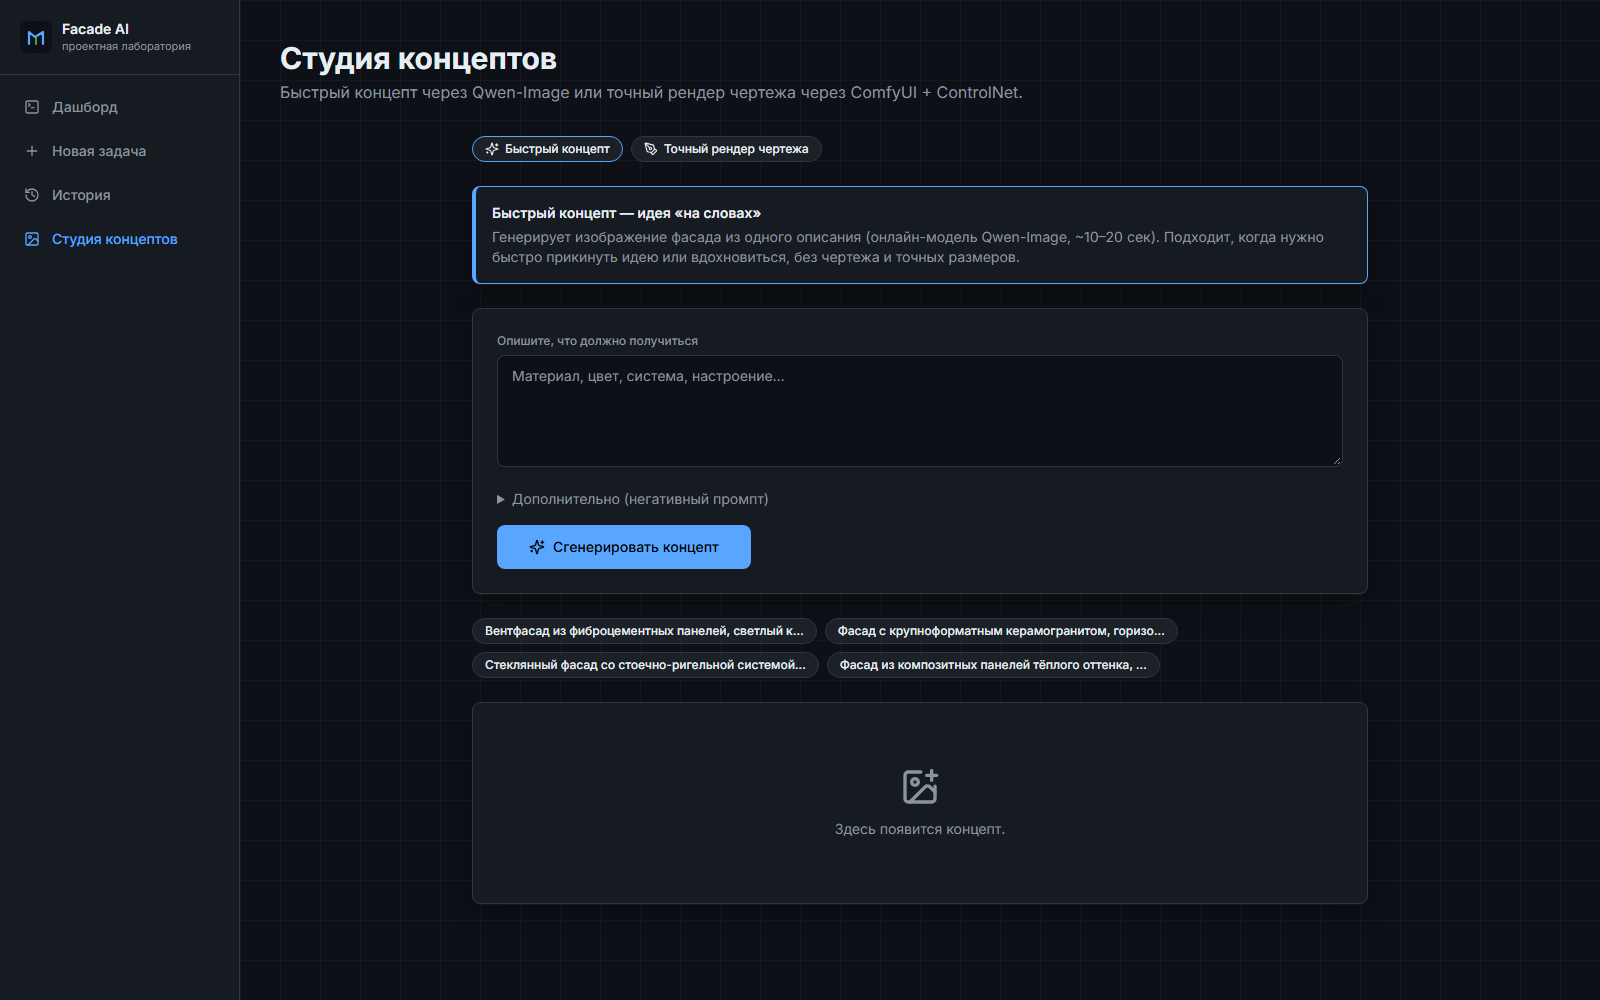
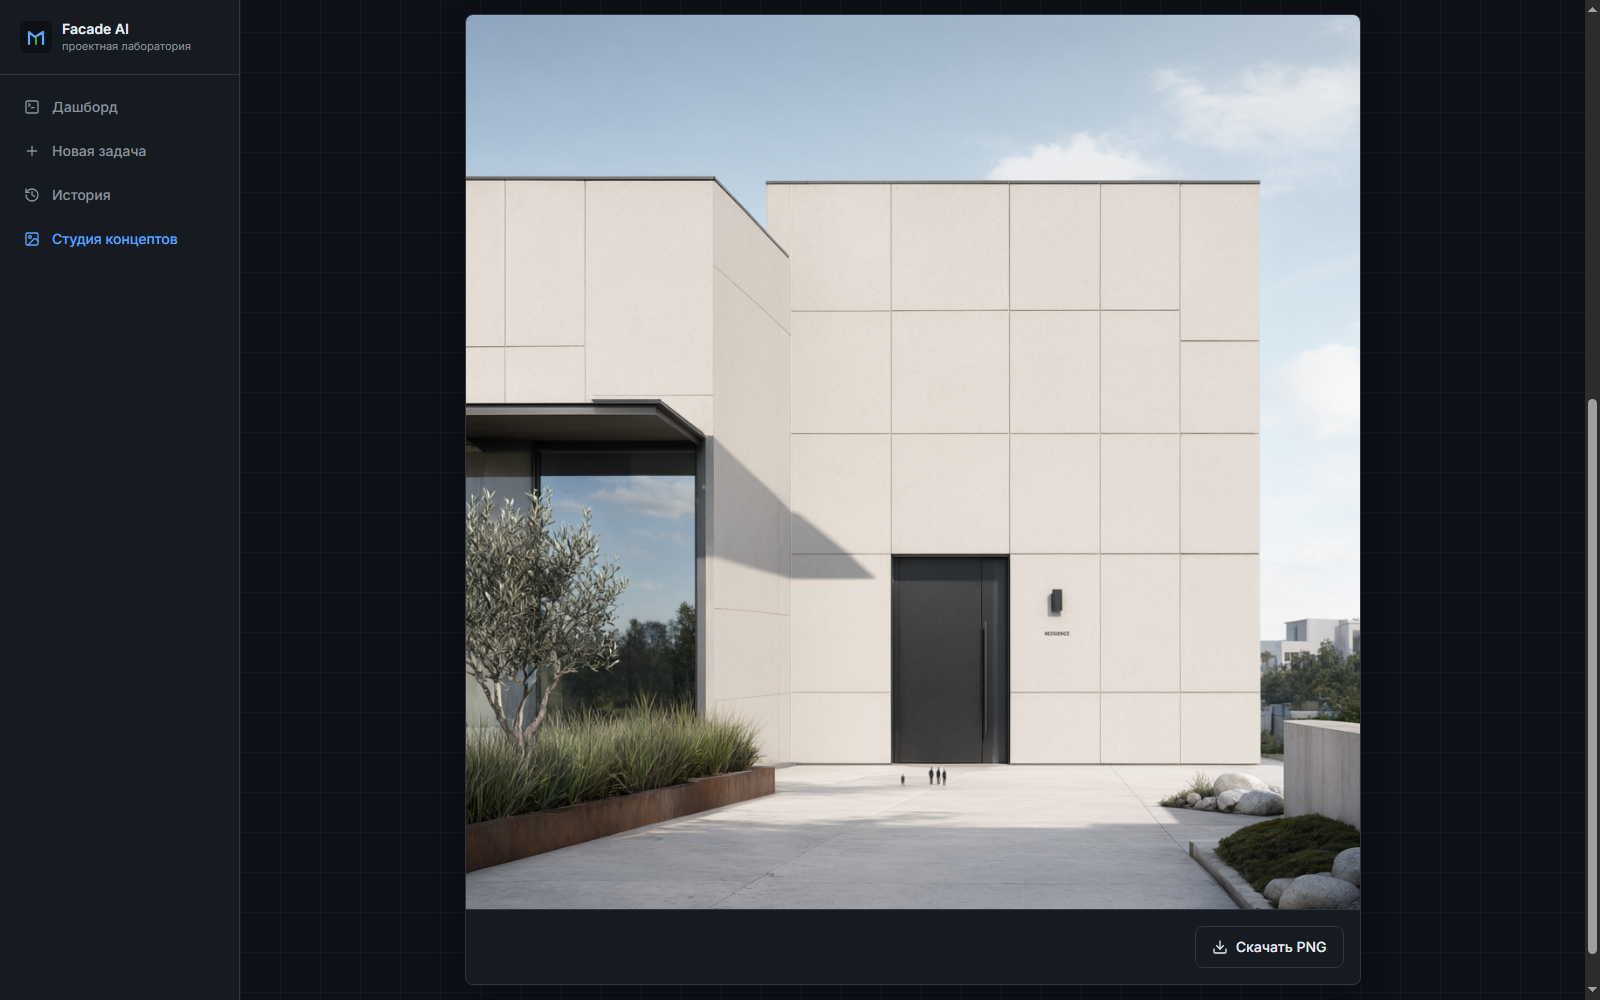
Facade AI case: gallery strengthened with generated concept and ComfyUI render shots

diff --git a/case/facade-ai.html b/case/facade-ai.html
@@ -214,18 +214,23 @@
                 </div>
                 <div class="screenshot" onclick="openModal(this)">
                     <span class="zoom-hint">Увеличить</span>
-                    <img src="../images/facade-ai/05-studio-concept.png" alt="Студия концептов: быстрый концепт">
-                    <div class="caption"><strong>6 · Быстрый концепт</strong> — Qwen-Image по описанию, 10–20 секунд, с готовыми промптами-подсказками</div>
+                    <img src="../images/facade-ai/05-studio-concept.png" alt="Сгенерированный концепт фасада в студии">
+                    <div class="caption"><strong>6 · Быстрый концепт</strong> — результат Qwen-Image по пресету «Вентфасад из фиброцементных панелей», ~15 секунд</div>
                 </div>
                 <div class="screenshot" onclick="openModal(this)">
                     <span class="zoom-hint">Увеличить</span>
-                    <img src="../images/facade-ai/06-studio-render.png" alt="Студия концептов: точный рендер чертежа">
-                    <div class="caption"><strong>7 · Точный рендер</strong> — загрузка чертежа, авто-выбор ControlNet (canny/depth), ComfyUI на домашнем GPU</div>
+                    <img src="../images/facade-ai/06-studio-render.png" alt="Точный рендер: загруженный чертёж и авто-выбор ControlNet">
+                    <div class="caption"><strong>7 · Точный рендер</strong> — чертёж загружен (превью), ControlNet «Авто», кнопка запуска активна</div>
+                </div>
+                <div class="screenshot" onclick="openModal(this)">
+                    <span class="zoom-hint">Увеличить</span>
+                    <img src="../images/facade-ai/09-studio-render-result.png" alt="Результат точного рендера чертежа через ComfyUI + ControlNet">
+                    <div class="caption"><strong>8 · Рендер чертежа</strong> — ComfyUI + ControlNet (canny) на домашнем GPU: геометрия сохранена — сетка окон 4×5 и вход на месте</div>
                 </div>
                 <div class="screenshot" onclick="openModal(this)">
                     <span class="zoom-hint">Увеличить</span>
                     <img src="../images/facade-ai/01-login.png" alt="Страница входа Facade AI">
-                    <div class="caption"><strong>8 · Вход</strong> — закрытый доступ: аккаунты создаёт администратор</div>
+                    <div class="caption"><strong>9 · Вход</strong> — закрытый доступ: аккаунты создаёт администратор</div>
                 </div>
             </div>
         </section>
